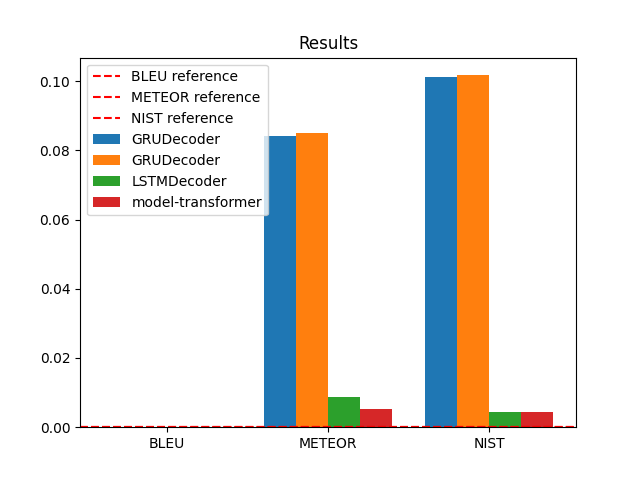
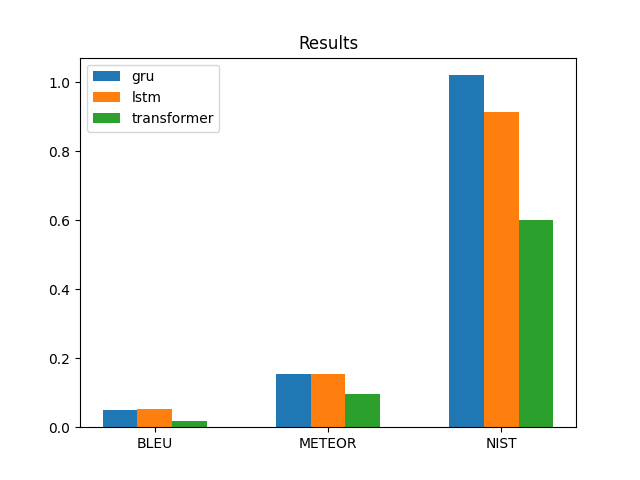
Paper is ready and presentation is fine.

diff --git a/BAI/paper/paper.tex b/BAI/paper/paper.tex
@@ -150,7 +150,7 @@
     This paper investigates the performance of three decoder architectures---Gated Recurrent Units (GRU), Long Short-Term Memory networks (LSTM), and Transformers---for image caption generation.
     Using the \textbf{Flickr8k} dataset, features are extracted from images using a pre-trained \textbf{EfficientNet B0} model, and captions are generated using the respective decoders.
     The models are implemented in \textbf{PyTorch}, and their performance is evaluated using standard metrics: \textbf{BLEU}, \textbf{METEOR}, and \textbf{NIST}.
-    The results show that the Transformer model outperforms the GRU and LSTM models in all metrics.
+    Unexpectedly, the Transformer model underperforms compared to the LSTM and GRU models across all metrics. This underperformance may stem from the limited training time and computational resources, as well as the Transformer's unique architecture.
 \end{abstract}
 
 \setcounter{tocdepth}{1}
@@ -166,8 +166,8 @@
 \section{Introduction}
 \label{sec:introduction}
 
-Image captioning involves generating textual descriptions of given images. It is a complex problem because it combines the visual and textual domains, thus bridging computer vision (CV) and natural language processing (NLP). Generating natural, descriptive sentences for images involves detecting and interpreting visual elements and their relationships within depicted scenes.
-\par While deep learning with attention mechanisms has long since been the dominant approach in image captioning \cite{xu2015show}, recent advances have been brought about by transformers \cite{vaswani2017attention}. These models have shown remarkable performance in various natural language processing tasks, including image captioning.
+Image captioning, the task of generating descriptive textual captions for given images, represents a significant challenge at the intersection of computer vision (CV) and natural language processing (NLP). This task requires models to accurately detect and interpret visual elements within an image while synthesizing coherent and contextually appropriate textual descriptions. Such a multifaceted problem has broad applications, including assistive technologies for visually impaired individuals, automated metadata generation, and content-based image retrieval.
+\par Deep learning approaches, particularly those employing attention mechanisms, have dominated image captioning research in recent years \cite{xu2015show}. These methods leverage the ability of neural networks to focus on relevant parts of an image while generating text. Building upon this foundation, Transformer-based architectures \cite{vaswani2017attention} have recently emerged as state-of-the-art in both NLP and CV tasks, owing to their ability to model complex dependencies and process sequences in parallel.
 \par This paper aims to compare the performance of different decoders directly, while keeping other parameters constant. The flickr8k dataset is used and the models are implemented using \textbf{PyTorch}. The BLEU, METEOR, and NIST scores are used as the evaluation metric.
 
 
@@ -312,10 +312,9 @@ The training and validation loss for the different models are shown in Figure \r
     \includegraphics[width=.3\textwidth]{res/training-transformer.png}
     \caption{Training and validation loss for the different models.}\label{fig:loss}
 \end{figure}
-Training the models took approximately 20 hours per model on a single GPU. The validation loss is similar for all models, but the LSTM model converges faster than the GRU and Transformer models.
+Training the models took approximately 20 hours per model on a single GPU. The validation loss is similar for all models. The weird shape of the Transformer losses is due to interrupted training.
 
 The results of the evaluation metrics are shown in Table \ref{tab:results} and Figure \ref{fig:results}.
-
 \begin{figure}[H]
     \centering
     \begin{minipage}{0.4\textwidth}
@@ -324,9 +323,9 @@ The results of the evaluation metrics are shown in Table \ref{tab:results} and F
             \fontsize{8}{10}\selectfont
             \begin{tabular}{c|c|c|c}
                 & \textbf{BLEU-4} & \textbf{METEOR} & \textbf{NIST-4} \\
-                GRU & & & \\
-                LSTM & & & \\
-                Transformer & & &
+                GRU & .0511 & .1551 & 1.0202 \\
+                LSTM & .0541 & .1537 & .9137 \\
+                Transformer & .0183 & .0956 & .6013
             \end{tabular}
             \caption{Evaluation metrics.}\label{tab:results}
         \end{table}
@@ -339,22 +338,22 @@ The results of the evaluation metrics are shown in Table \ref{tab:results} and F
     \end{minipage}
 \end{figure}
 
-These results show that the Tableransformer model outperforms the other models in all metrics. The LSTM model performs better than the GRU model, but worse than the Transformer model.
+The results show that the LSTM and GRU models perform roughly the same, while the Transformer model performs worse in all metrics. This is contrary to expectations, as Transformers have shown remarkable performance in various NLP tasks.
+\par This is likely due to the limited training time and computational resources. Also, the Transformer predicts the whole sequence at once, which might be suboptimal for image captioning tasks.
 \par Compared to other research, our results are much worse. \cite{vinyals2015show} achieved a BLEU score of  27.7, for example, and \cite{xu2015show} achieved a METEOR score of 24.3.
-\par This has several reasons: \begin{enumerate}
+\par This might have several reasons: \begin{enumerate}
     \item \textbf{Smaller Dataset}: The flickr8k dataset is smaller than other datasets like MS COCO, which is used in \cite{vinyals2015show} and \cite{xu2015show}.
     \item \textbf{Encoder}: The EfficientNet B0 model is less powerful than other models like ResNet, for example \cite{he2016deep}.
     \item \textbf{No attention mechanisms}: The models used in this paper do not use attention mechanisms, which are crucial for image captioning \cite{xu2015show}
     \item \textbf{Limited training time}: The models were trained for a limited number of epochs due to computational constraints.
 \end{enumerate}
-\par Nonetheless, we were able to show the comparative advantage of Transformers over RNNs for image captioning.
 
 
 
 \section{Conclusion}\label{sec:conclusion}
 
 This paper presents our experiments with different decoder models for the task of image captioning. The flickr8k dataset is used and the models are evaluated using BLEU, METEOR, and NIST scores.
-\par Our results show Transformers outperform RNNs for image captioning.
+\par Our results show that the LSTM and GRU models outperform the Transformer model in all metrics given the limited training time and computational resources.
 \par In the future, further experiments should be conducted with
 \begin{enumerate}
     \item other encoder models, like ResNet or VGG.

diff --git a/BAI/paper/presentation.tex b/BAI/paper/presentation.tex
@@ -229,56 +229,115 @@
 % Content
 %%%%%%%%%%%%%%%%%%%%%%%%%%%%%%%%%%%%%%
 
-\begin{frame}
+% Slide 1: Introduction
+\begin{frame}{Introduction}
+	\textbf{What is Image Captioning?}
 	\begin{itemize}
-			\item \textbf{Image Captioning}: Generating textual descriptions for images \cite{vinyals:2015}.
-			\item \textbf{Challenges}: Complex problem combining computer vision (CV) and natural language processing (NLP) \cite{xu}.
-			\item \textbf{Advancements}: Deep learning models using CNNs for feature extraction and RNNs for language generation \cite{he, simonyan}.
+			\item Task: Generate descriptive textual captions for images.
+			\item Combines computer vision (CV) and natural language processing (NLP).
+			\item Applications: Assistive technology, automated metadata generation, and more.
 	\end{itemize}
+	% Speaker Notes:
+	% Begin by briefly explaining the task of image captioning. Highlight its interdisciplinary nature and practical applications.
 \end{frame}
 
-\section{Methods}
-\begin{frame}{Methods}
+% Slide 2: Problem Statement
+\begin{frame}{Problem Statement}
+	\textbf{Challenges in Image Captioning}
 	\begin{itemize}
-			\item \textbf{Dataset:} Flickr8k, with 8,000 images and five captions per image \cite{vinyals:2015}.
-			\item \textbf{Architecture:} Encoder-Decoder architecture:
-					\begin{itemize}
-							\item Encoder: CNN-based (ResNet-50, VGG-16) \cite{he, simonyan}.
-							\item Decoder: RNN-based (GRU, LSTM) \cite{hochreiter}.
-					\end{itemize}
-			\item \textbf{Evaluation Metrics:} BLEU score for performance \cite{papineni}, with CIDEr as an alternative \cite{vedantam}.
+			\item Detecting and interpreting visual elements accurately.
+			\item Generating coherent and contextually relevant text.
+			\item Balancing computational efficiency and model performance.
 	\end{itemize}
+	% Speaker Notes:
+	% Emphasize the dual challenges of visual understanding and text generation. Mention the need for scalable solutions in real-world applications.
 \end{frame}
 
-\section{Approach}
-\begin{frame}{Approach}
+% Slide 3: Methodology (Dataset and Features)
+\begin{frame}{Methodology: Dataset and Features}
+	\textbf{Dataset: Flickr8k}
 	\begin{itemize}
-			\item \textbf{Data Preprocessing:} Resize images, normalize, and tokenize captions \cite{vinyals:2015}.
-			\item \textbf{Model Training:} Train decoder using Adam optimizer and monitor BLEU score for validation \cite{papineni}.
-			\item \textbf{Model Evaluation:} Evaluate BLEU score after each epoch for overfitting assessment \cite{rennie}.
+			\item Contains 8,000 images with five captions per image.
 	\end{itemize}
+	\textbf{Feature Extraction}
+	\begin{itemize}
+			\item Pre-trained EfficientNet B0 model.
+			\item Extracts high-level features from images.
+	\end{itemize}
+	% Speaker Notes:
+	% Explain why Flickr8k was chosen and describe its characteristics. Introduce EfficientNet B0 as a state-of-the-art feature extractor.
 \end{frame}
 
-\section{Results}
-\begin{frame}{Results}
+% Slide 4: Methodology (Decoder Architectures)
+\begin{frame}{Methodology: Decoder Architectures}
+	\textbf{Architectures Evaluated}
 	\begin{itemize}
-			\item BLEU scores for encoder-decoder combinations (ResNet-GRU, VGG-GRU, ResNet-LSTM, VGG-LSTM) \cite{he, simonyan}.
-				\item \textbf{Best Performance:} VGG encoder with LSTM decoder, highest BLEU score in the first epoch \cite{vinyals:2015}.
-				\item Observation of \textbf{Overfitting}: Decrease in BLEU scores over epochs \cite{rennie}.
+			\item GRU (Gated Recurrent Units)
+			\item LSTM (Long Short-Term Memory Networks)
+			\item Transformer
 	\end{itemize}
+	\textbf{Implementation}
+	\begin{itemize}
+			\item Implemented in PyTorch.
+			\item Trained using image features and paired captions.
+	\end{itemize}
+	% Speaker Notes:
+	% Briefly describe each architecture and its role in the pipeline. Mention the choice of PyTorch for implementation.
 \end{frame}
 
-\section{Conclusion}
-\begin{frame}{Conclusion}
+% Slide 5: Results (Metrics)
+\begin{frame}{Results: Metrics}
+	\textbf{Evaluation Metrics}
 	\begin{itemize}
-			\item \textbf{Summary:} VGG-LSTM model achieved the best BLEU score and stability across epochs \cite{vinyals:2016}.
-			\item \textbf{Future Work:} Explore other architectures (e.g., transformers), datasets (e.g., Flickr30k, MS COCO), and metrics (e.g., CIDEr) \cite{vedantam}.
+			\item BLEU: Measures n-gram overlap.
+			\item METEOR: Considers semantic matching.
+			\item NIST: Focuses on information content.
 	\end{itemize}
+	\textbf{Key Findings}
+	\begin{itemize}
+			\item Transformer underperforms GRU and LSTM in all metrics.
+	\end{itemize}
+	% Speaker Notes:
+	% Introduce the metrics and explain their relevance. Highlight the surprising result of Transformer underperformance.
 \end{frame}
 
-\begin{frame}[allowframebreaks]
-	\bibliographystyle{apalike}
-	\bibliography{bib}
+% Slide 6: Results (Comparison)
+\begin{frame}{Results: Comparison of Architectures}
+	\begin{itemize}
+			\item GRU and LSTM outperform Transformer.
+			\item Transformer struggles with smaller datasets like Flickr8k.
+	\end{itemize}
+	\textbf{Visual Comparison}
+	\includegraphics[width=.6\textwidth]{res/metrics.png}
+	% Speaker Notes:
+	% Present the comparison visually and discuss why the Transformer might struggle with limited data.
+\end{frame}
+
+% Slide 7: Discussion
+\begin{frame}{Discussion}
+	\textbf{Insights and Implications}
+	\begin{itemize}
+			\item Traditional architectures (GRU, LSTM) remain competitive.
+			\item Transformers may require larger datasets to realize their full potential.
+	\end{itemize}
+	% Speaker Notes:
+	% Reflect on what these results mean for the field and the practical implications of using different architectures.
+\end{frame}
+
+% Slide 8: Conclusion and Future Work
+\begin{frame}{Conclusion and Future Work}
+	\textbf{Summary}
+	\begin{itemize}
+			\item Evaluated GRU, LSTM, and Transformer for image captioning.
+			\item GRU and LSTM outperform Transformer on Flickr8k.
+	\end{itemize}
+	\textbf{Future Work}
+	\begin{itemize}
+			\item Test on larger datasets (e.g., MS COCO).
+			\item Explore hybrid architectures.
+	\end{itemize}
+	% Speaker Notes:
+	% Summarize the study's key points and suggest future directions for improvement and exploration.
 \end{frame}
 
 \end{document}
